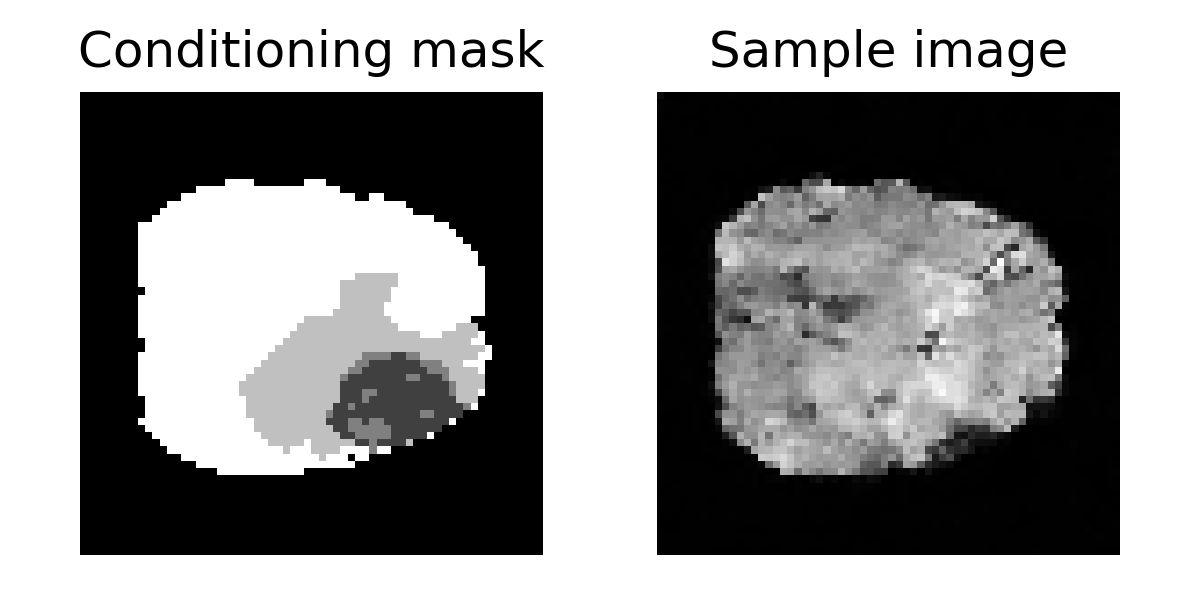
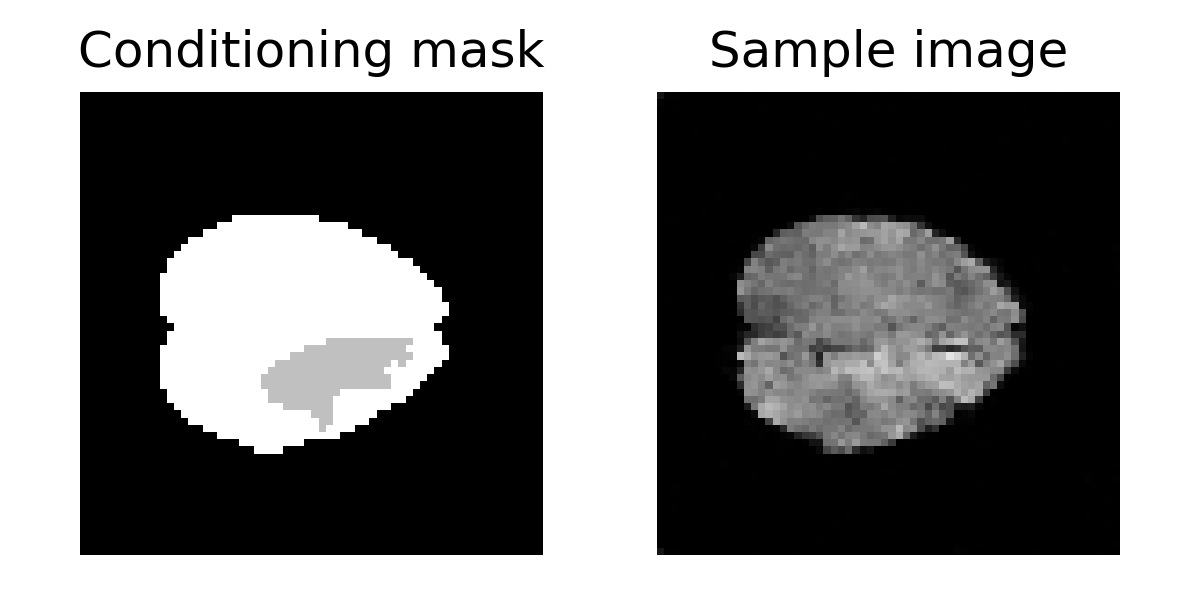
dataloader changes

Changed region(s): [[0.5858, 0.3, 0.8942, 0.81], [0.0925, 0.3, 0.4317, 0.81]]

diff --git a/src/controlnet/data/Dataloaders.py b/src/controlnet/data/Dataloaders.py
@@ -24,7 +24,7 @@ train_transforms = transforms.Compose(
         transforms.Lambdad(keys=["slice_label"], func=lambda x: 2.0 if x.sum() > 0 else 1.0),
         transforms.CopyItemsd(keys=["image"], times=1, names=["mask"]),
         transforms.Lambdad(keys=["mask"], func=lambda x: torch.where(x > 0.1, 1, 0)),
-        transforms.FillHolesd(keys=["mask"]),
+        #transforms.FillHolesd(keys=["mask"]),
         transforms.CastToTyped(keys=["mask"], dtype=np.float32)
     ]
 )
